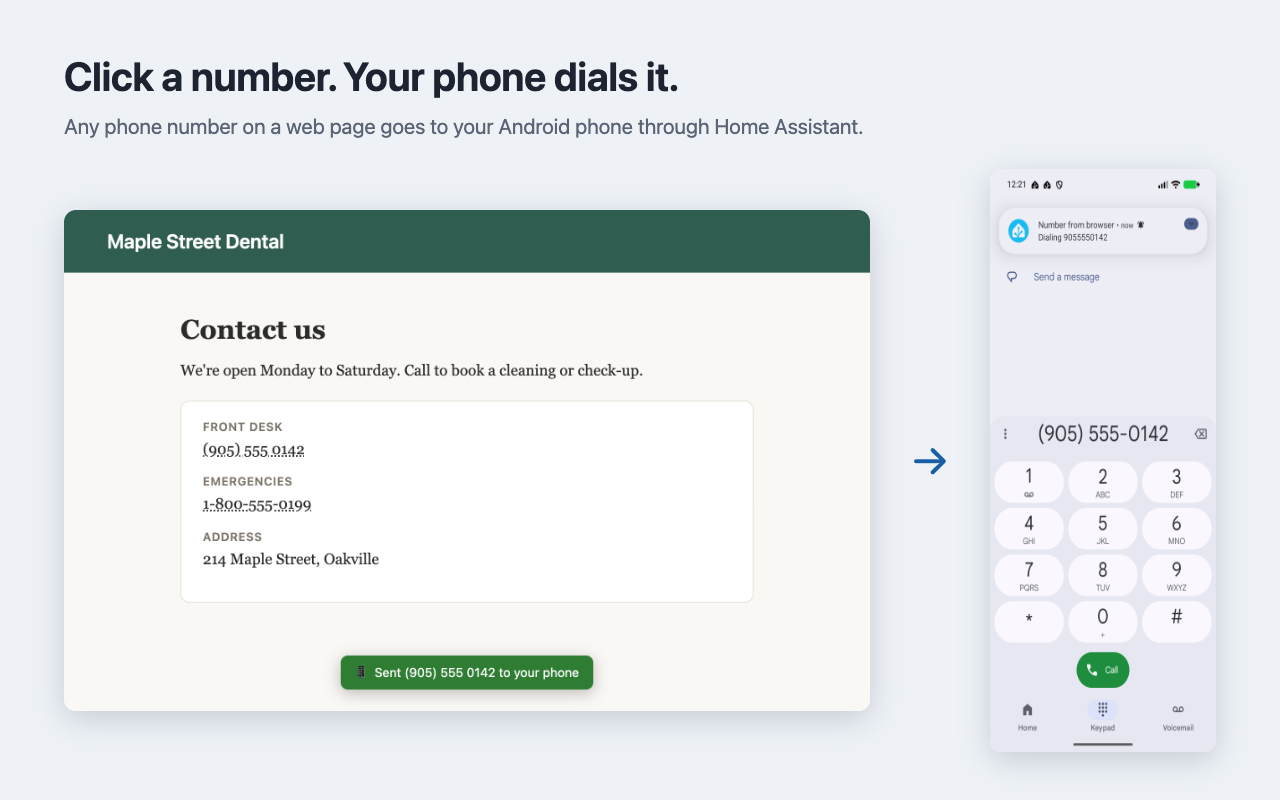
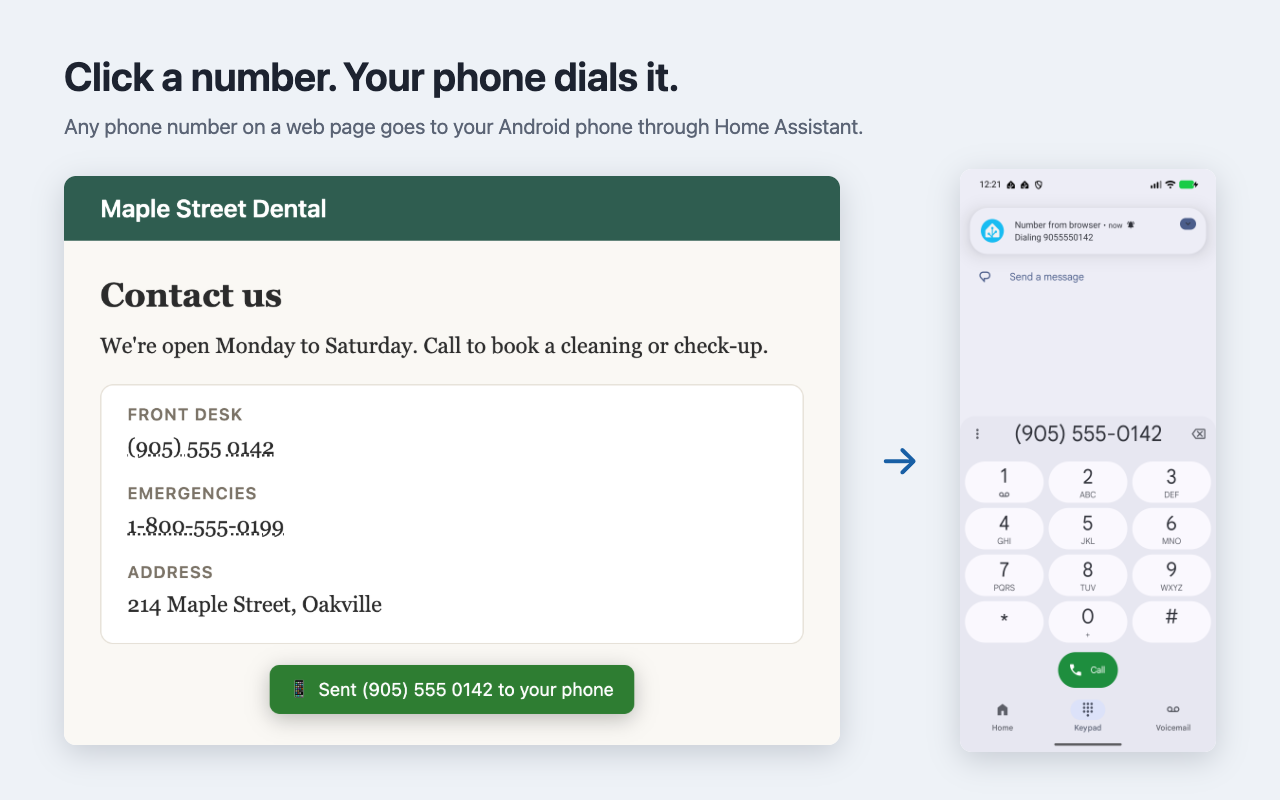
README: simpler intro and setup steps; tighter demo page screenshot

diff --git a/dev/demo-page.html b/dev/demo-page.html
@@ -5,10 +5,10 @@
   <title>Maple Street Dental – Contact</title>
   <style>
     body { margin: 0; font: 17px/1.6 Georgia, serif; color: #2b2b2b; background: #faf8f4; }
-    header { background: #2f5d50; color: #fff; padding: 22px 48px; font: 600 22px system-ui, sans-serif; }
-    main { max-width: 640px; margin: 40px auto; padding: 0 24px; }
-    h1 { font-size: 30px; margin: 0 0 8px; }
-    .card { background: #fff; border: 1px solid #e6e1d8; border-radius: 10px; padding: 20px 24px; margin: 20px 0; }
+    header { background: #2f5d50; color: #fff; padding: 14px 28px; font: 600 19px system-ui, sans-serif; }
+    main { margin: 22px 28px; }
+    h1 { font-size: 26px; margin: 0 0 4px; }
+    .card { background: #fff; border: 1px solid #e6e1d8; border-radius: 10px; padding: 14px 20px 2px; margin: 16px 0 0; }
     .label { font: 600 13px system-ui, sans-serif; text-transform: uppercase; letter-spacing: .05em; color: #7a7266; }
     p { margin: 4px 0 14px; }
   </style>

diff --git a/README.md b/README.md
@@ -1,43 +1,38 @@
 # HA Click-to-Call
 
-Dial a number on your phone from your browser.
-
-Your desktop sends the number to Home Assistant. The Home Assistant Companion app on your phone buzzes and opens the
-dialer with the number ready to call.
+Click to call phone numbers from your browser on your phone, using Home Assistant and the Home Assistant Companion
+app.
 
 <p>
-  <img src="docs/screenshots/page-sent.png" width="560" alt="A web page with a phone number. After clicking it, a message says it was sent to your phone.">
+  <img src="docs/screenshots/page-sent.png" width="480" alt="A web page with a phone number. After clicking it, a message says it was sent to your phone.">
   <img src="docs/screenshots/phone-dialer.png" width="160" alt="The phone shows a 'Number from browser' notification and the dialer with the number filled in.">
 </p>
 
 ## What you need
 - [Home Assistant](https://www.home-assistant.io/).
 - An Android phone with the [Home Assistant Companion app](https://companion.home-assistant.io/) installed.
-- A desktop browser: Chrome, Edge, Brave, Arc or Firefox.
+- Chrome, Edge or Firefox.
 
 ## Set up
-[Install the extension](#install), then click its icon in the toolbar to open the settings. They walk you
-through four steps.
+[Install the extension](#install), then click its icon in the toolbar to open the settings.
+
+It will walk you through four steps.
 
 **1. Add the blueprint to Home Assistant.**
 [![Open your Home Assistant instance and show the blueprint import dialog with this blueprint pre-filled.](https://my.home-assistant.io/badges/blueprint_import.svg)](https://my.home-assistant.io/redirect/blueprint_import/?blueprint_url=https%3A%2F%2Fgithub.com%2Fdk1%2Fha-click-to-call%2Fblob%2Fmain%2Fblueprints%2Fha_click_to_call.yaml)
-The button opens Home Assistant's import dialog with the address filled in. Select **Preview**, then **Import**.
 
-<img src="docs/screenshots/ha-import.png" width="640" alt="Home Assistant's Import a blueprint dialog with the HA Click-to-Call address filled in.">
-
-**2. Create the automation.** Open the blueprint, select **Create automation**, pick your phone and paste the
+**2. Create the automation.** Open the blueprint, select **Create automation**, select your phone and paste the
 webhook ID from the extension's settings.
 
 <img src="docs/screenshots/settings-step2.png" width="640" alt="Step 2 in the extension's settings, with the webhook ID and a Copy button.">
 
 **3. Set up your phone.** Allow the Home Assistant app to **Display over other apps**: on your phone, go to
 **Settings** > **Apps** > **Home Assistant** (called **Appear on top** on some phones). Android needs this
-before an app can open the dialer for you. Without it, your phone still buzzes, and you tap the notification
-to open the dialer.
+before an app can open the dialer for you. Without it, you can tap the notification to open the dialer.
 
 <img src="docs/screenshots/phone-overlay-setting.png" width="520" alt="App info for Home Assistant with Display over other apps outlined, then the Allow display over other apps switch turned on.">
 
-**4. Connect your desktop.** Enter your Home Assistant address, such as your Nabu Casa URL, and click
+**4. Connect the extension.** Enter your Home Assistant address, such as your Nabu Casa URL, and click
 **Save**, then **Send to phone** to try it.
 
 <img src="docs/screenshots/settings-step4.png" width="440" alt="Step 4 in the extension's settings, with a Nabu Casa address and the Save button.">
@@ -48,8 +43,7 @@ store, run it straight from this repository.
 
 ### Run it from the source (no store)
 The extension is a few hundred lines of plain JavaScript in the [`extension`](extension) folder, with no build
-step and nothing downloaded at runtime, so you can read all of it before you load it. Installed this way, it
-only changes when you update it.
+step and nothing downloaded at runtime, so you can read all of it before you load it.
 
 1. Get the code: `git clone https://github.com/dk1/ha-click-to-call`, or **Code** > **Download ZIP** on this
    page and unzip it. Keep the folder: the browser loads the extension from it.
